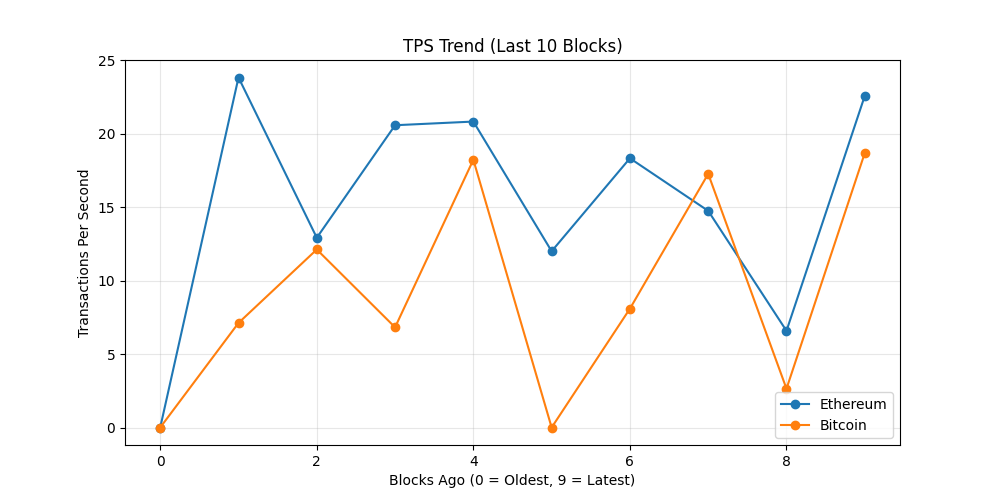
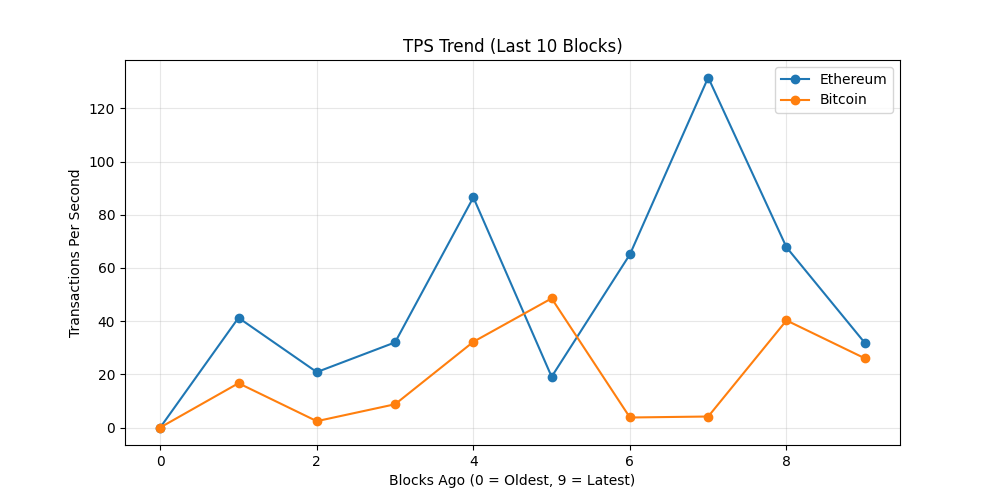
chore: update on-chain dashboard

diff --git a/README.md b/README.md
@@ -19,7 +19,7 @@ The README itself acts as the dashboard and is regenerated automatically on a 6 
 demonstrating a production-style, infrastructure-focused observability workflow rather
 than a traditional UI-driven approach.
 
-_Last updated: 2026-05-22 04:35 UTC_
+_Last updated: 2026-05-22 09:48 UTC_
 
 ## API Usage (GetBlock.io)
 - Calls used: **24**
@@ -27,8 +27,8 @@ _Last updated: 2026-05-22 04:35 UTC_
 ## Network Metrics
 | Chain | Block Height | TX Count | TPS (10 blk avg) | Block Util | Avg Fee |
 |------|-------------|----------|------------------|------------|---------|
-| Ethereum | 25148439 | 271 | 22.58 | 92.18% | 0.1 Gwei |
-| Bitcoin | 950460 | 5083 | 18.69 | 99.79% | N/A |
+| Ethereum | 25149999 | 382 | 31.83 | 45.84% | 0.1 Gwei |
+| Bitcoin | 950490 | 6454 | 26.02 | 99.79% | N/A |
 
 ## Visuals
 ### Transactions Trend
@@ -43,7 +43,10 @@ _Last updated: 2026-05-22 04:35 UTC_
 ## Whale Alerts (latest block)
 - Transaction hashes are truncated for readability.
 - Full hashes are available in `dashboards/metrics.json`
-- Bitcoin | 490.92 BTC | `b015326f0e3b…`
+- Bitcoin | 299.5 BTC | `e4ca15e7e417…`
+- Bitcoin | 275.63 BTC | `6725e16c48c2…`
+- Bitcoin | 200.36 BTC | `4f184f8814a1…`
+- Bitcoin | 490.25 BTC | `4b296f8afef4…`
 
 ## Run locally
 
